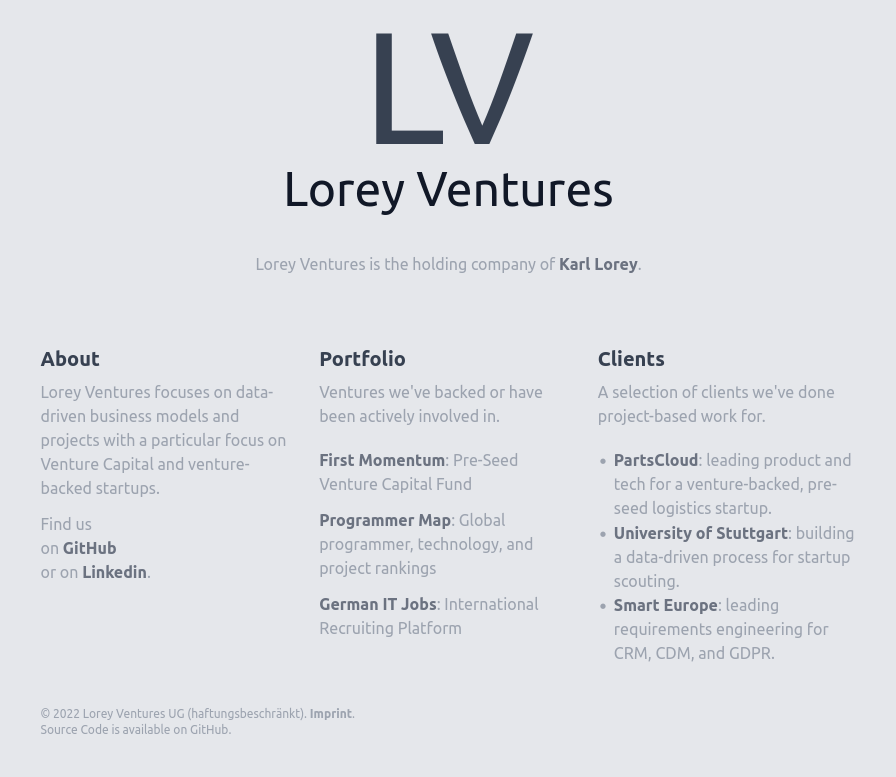
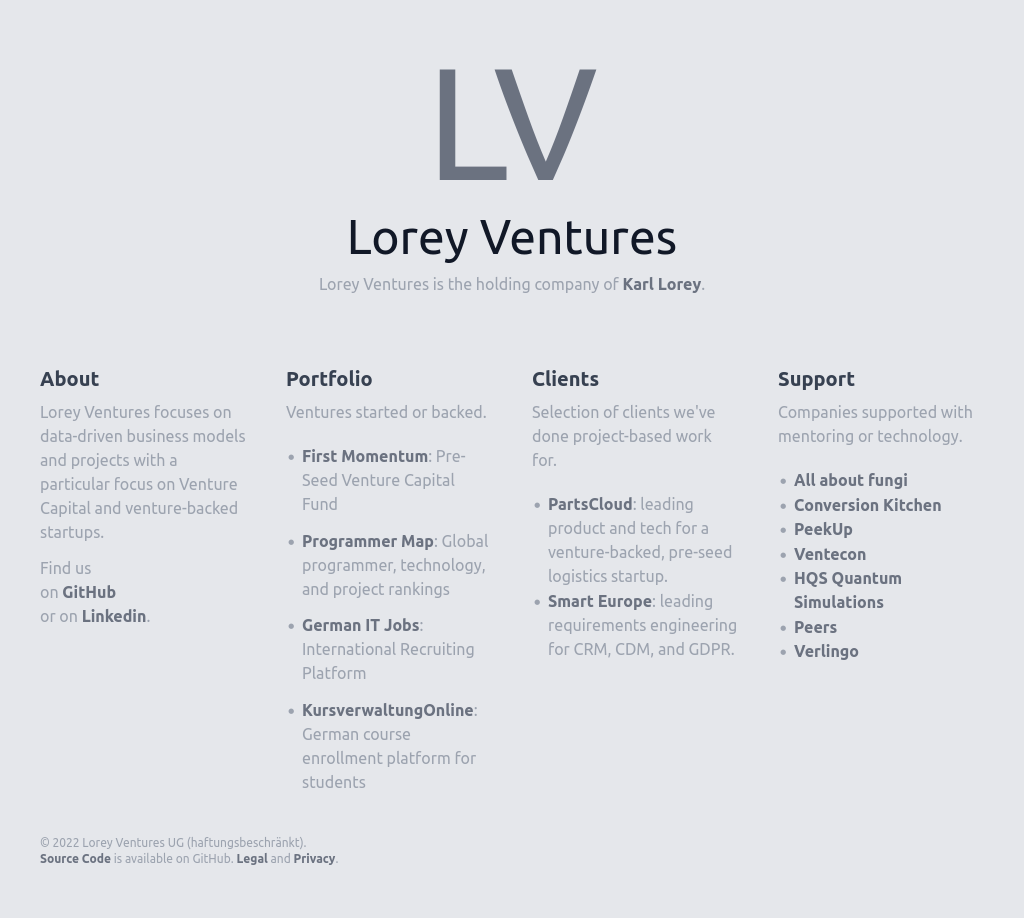
Update README and screenshot

diff --git a/README.md b/README.md
@@ -1,16 +1,21 @@
-# Code for [loreyventures.com](https://loreyventures.com)
-[loreyventures.com](https://loreyventures.com), the website of Lorey Ventures, created with Gatsby and Airtable.
+# Minimalist Portfolio Website with Gatsby
+A minimalist website with and about, portfolio, and references section.
+Created with Gatsby, React, and Tailwind.
+Deployed on Github Pages as [loreyventures.com](https://loreyventures.com), the website of Lorey Ventures.
+
+Here's a preview:
 
 ![screenshot of loreyventures.com](screenshot.png)
 
-Plugins:
-- https://www.gatsbyjs.com/plugins/gatsby-source-airtable
-
-## Run
+## Development
+To develop, check out this repository and run
 ```
 docker-compose build
 docker-compose up
 ```
+
+## Deployment
+Deployment is defined in `.github` and done automatically on every push.
 
 ## Sources
 - [Gatsby in Docker](https://blog.konnor.site/javascript/setting-up-gatsby-with-docker/)
